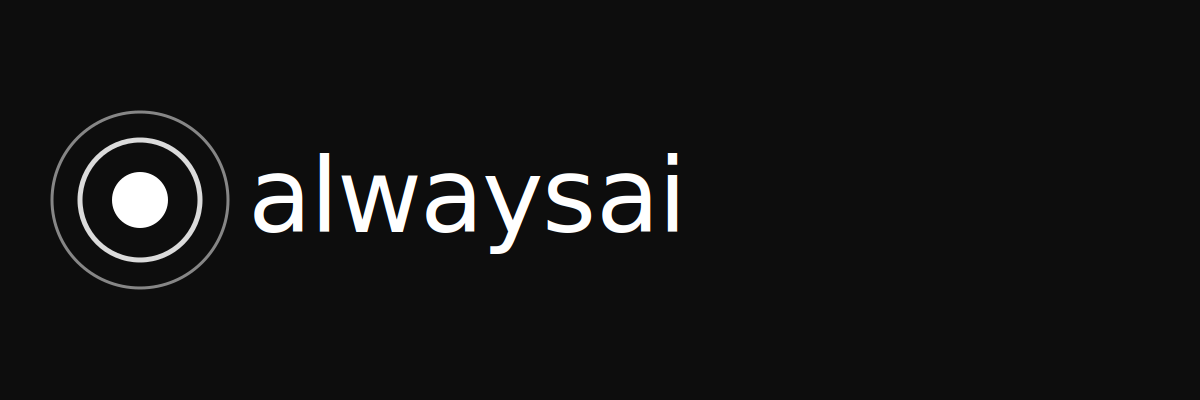
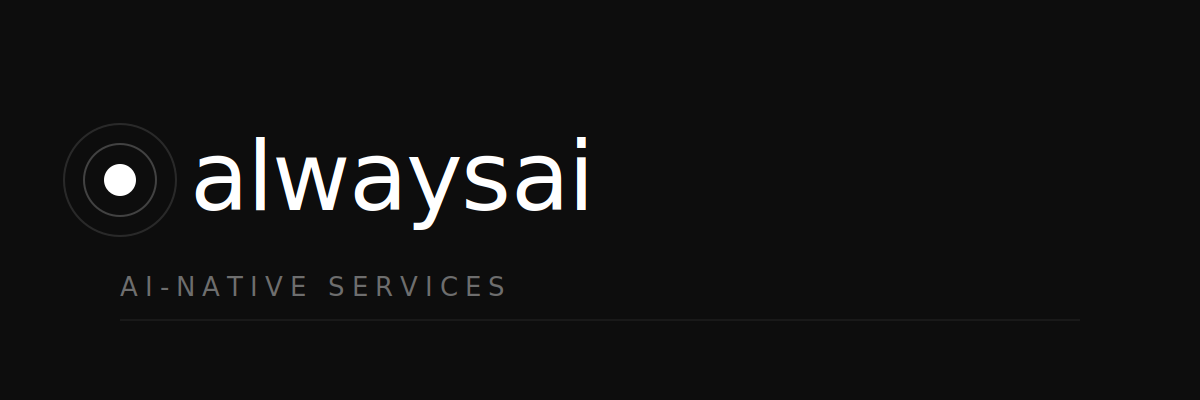
deploy: sync with Susi's latest files from Drive

Changed region(s): [[0.0308, 0.27, 0.5858, 0.75], [0.4625, 0.33, 0.4933, 0.36]]

diff --git a/index.html b/index.html
@@ -107,7 +107,7 @@
             height: 64px;
         }
         .logo { display: flex; align-items: center; }
-        .logo-svg { height: 48px; width: auto; color: var(--white); }
+        .logo-svg { height: 36px; width: auto; color: var(--white); }
         .topbar-links { display: flex; align-items: center; gap: 8px; }
         .lang-toggle {
             display: flex; align-items: center; gap: 6px;
@@ -506,11 +506,11 @@
 <nav class="topbar" role="navigation" aria-label="Main navigation">
     <div class="container topbar-inner">
         <a href="#" class="logo" aria-label="AlwaysAI Home">
-            <svg class="logo-svg" width="200" height="66" viewBox="0 0 420 140" xmlns="http://www.w3.org/2000/svg" fill="none">
-                <circle cx="42" cy="70" r="30" stroke="currentColor" stroke-width="1" opacity="0.5"/>
-                <circle cx="42" cy="70" r="21" stroke="currentColor" stroke-width="1.8" opacity="0.85"/>
-                <circle cx="42" cy="70" r="10" fill="currentColor"/>
-                <text x="80" y="82" font-family="'DM Sans', 'Helvetica Neue', Arial, sans-serif" font-size="38" font-weight="300" fill="currentColor" letter-spacing="-0.8">always<tspan font-weight="500">ai</tspan></text>
+            <svg class="logo-svg" width="160" height="52" viewBox="0 0 600 200" xmlns="http://www.w3.org/2000/svg" fill="none">
+                <circle cx="60" cy="90" r="28" stroke="currentColor" stroke-width="1" opacity="0.12"/>
+                <circle cx="60" cy="90" r="18" stroke="currentColor" stroke-width="1" opacity="0.22"/>
+                <circle cx="60" cy="90" r="8" fill="currentColor"/>
+                <text x="95" y="105" font-family="'DM Sans', 'Helvetica Neue', Arial, sans-serif" font-size="48" font-weight="300" fill="currentColor" letter-spacing="-1">always<tspan font-weight="500">ai</tspan></text>
             </svg>
         </a>
         <div class="topbar-links">
@@ -784,11 +784,11 @@
     <div class="container">
         <div class="footer-grid">
             <div class="footer-brand">
-                <svg class="footer-logo-svg" width="170" height="56" viewBox="0 0 420 140" xmlns="http://www.w3.org/2000/svg" fill="none">
-                    <circle cx="42" cy="70" r="30" stroke="white" stroke-width="1" opacity="0.5"/>
-                    <circle cx="42" cy="70" r="21" stroke="white" stroke-width="1.8" opacity="0.85"/>
-                    <circle cx="42" cy="70" r="10" fill="white"/>
-                    <text x="80" y="82" font-family="'DM Sans', 'Helvetica Neue', Arial, sans-serif" font-size="38" font-weight="300" fill="white" letter-spacing="-0.8">always<tspan font-weight="500">ai</tspan></text>
+                <svg class="footer-logo-svg" width="140" height="48" viewBox="0 0 600 200" xmlns="http://www.w3.org/2000/svg" fill="none">
+                    <circle cx="60" cy="90" r="28" stroke="white" stroke-width="1" opacity="0.12"/>
+                    <circle cx="60" cy="90" r="18" stroke="white" stroke-width="1" opacity="0.22"/>
+                    <circle cx="60" cy="90" r="8" fill="white"/>
+                    <text x="95" y="105" font-family="'DM Sans', 'Helvetica Neue', Arial, sans-serif" font-size="48" font-weight="300" fill="white" letter-spacing="-1">always<tspan font-weight="500">ai</tspan></text>
                 </svg>
                 <p>
                     <span data-de="Immer AI. Immer für Sie da.<br>Pragmatische KI-Beratung für den deutschen Mittelstand." data-en="Always AI. Always there for you.<br>Pragmatic AI consulting for German Mittelstand.">Immer AI. Immer für Sie da.<br>Pragmatische KI-Beratung für den deutschen Mittelstand.</span>

diff --git a/impressum.html b/impressum.html
@@ -58,7 +58,7 @@
             display: flex; align-items: center;
             text-decoration: none;
         }
-        .site-header .logo-svg { height: 44px; width: auto; color: var(--white); }
+        .site-header .logo-svg { height: 32px; width: auto; color: var(--white); }
         .site-header .logo span {
             font-size: 1.5rem; font-weight: 800; color: var(--white);
             letter-spacing: -0.02em;
@@ -159,11 +159,11 @@
     <!-- Header -->
     <header class="site-header">
         <a href="index.html" class="logo" aria-label="AlwaysAI Home">
-            <svg class="logo-svg" width="170" height="56" viewBox="0 0 420 140" xmlns="http://www.w3.org/2000/svg" fill="none">
-                <circle cx="42" cy="70" r="30" stroke="currentColor" stroke-width="1" opacity="0.5"/>
-                <circle cx="42" cy="70" r="21" stroke="currentColor" stroke-width="1.8" opacity="0.85"/>
-                <circle cx="42" cy="70" r="10" fill="currentColor"/>
-                <text x="80" y="82" font-family="'DM Sans', 'Helvetica Neue', Arial, sans-serif" font-size="38" font-weight="300" fill="currentColor" letter-spacing="-0.8">always<tspan font-weight="500">ai</tspan></text>
+            <svg class="logo-svg" width="140" height="48" viewBox="0 0 600 200" xmlns="http://www.w3.org/2000/svg" fill="none">
+                <circle cx="60" cy="90" r="28" stroke="currentColor" stroke-width="1" opacity="0.12"/>
+                <circle cx="60" cy="90" r="18" stroke="currentColor" stroke-width="1" opacity="0.22"/>
+                <circle cx="60" cy="90" r="8" fill="currentColor"/>
+                <text x="95" y="105" font-family="'DM Sans', 'Helvetica Neue', Arial, sans-serif" font-size="48" font-weight="300" fill="currentColor" letter-spacing="-1">always<tspan font-weight="500">ai</tspan></text>
             </svg>
         </a>
         <nav>
